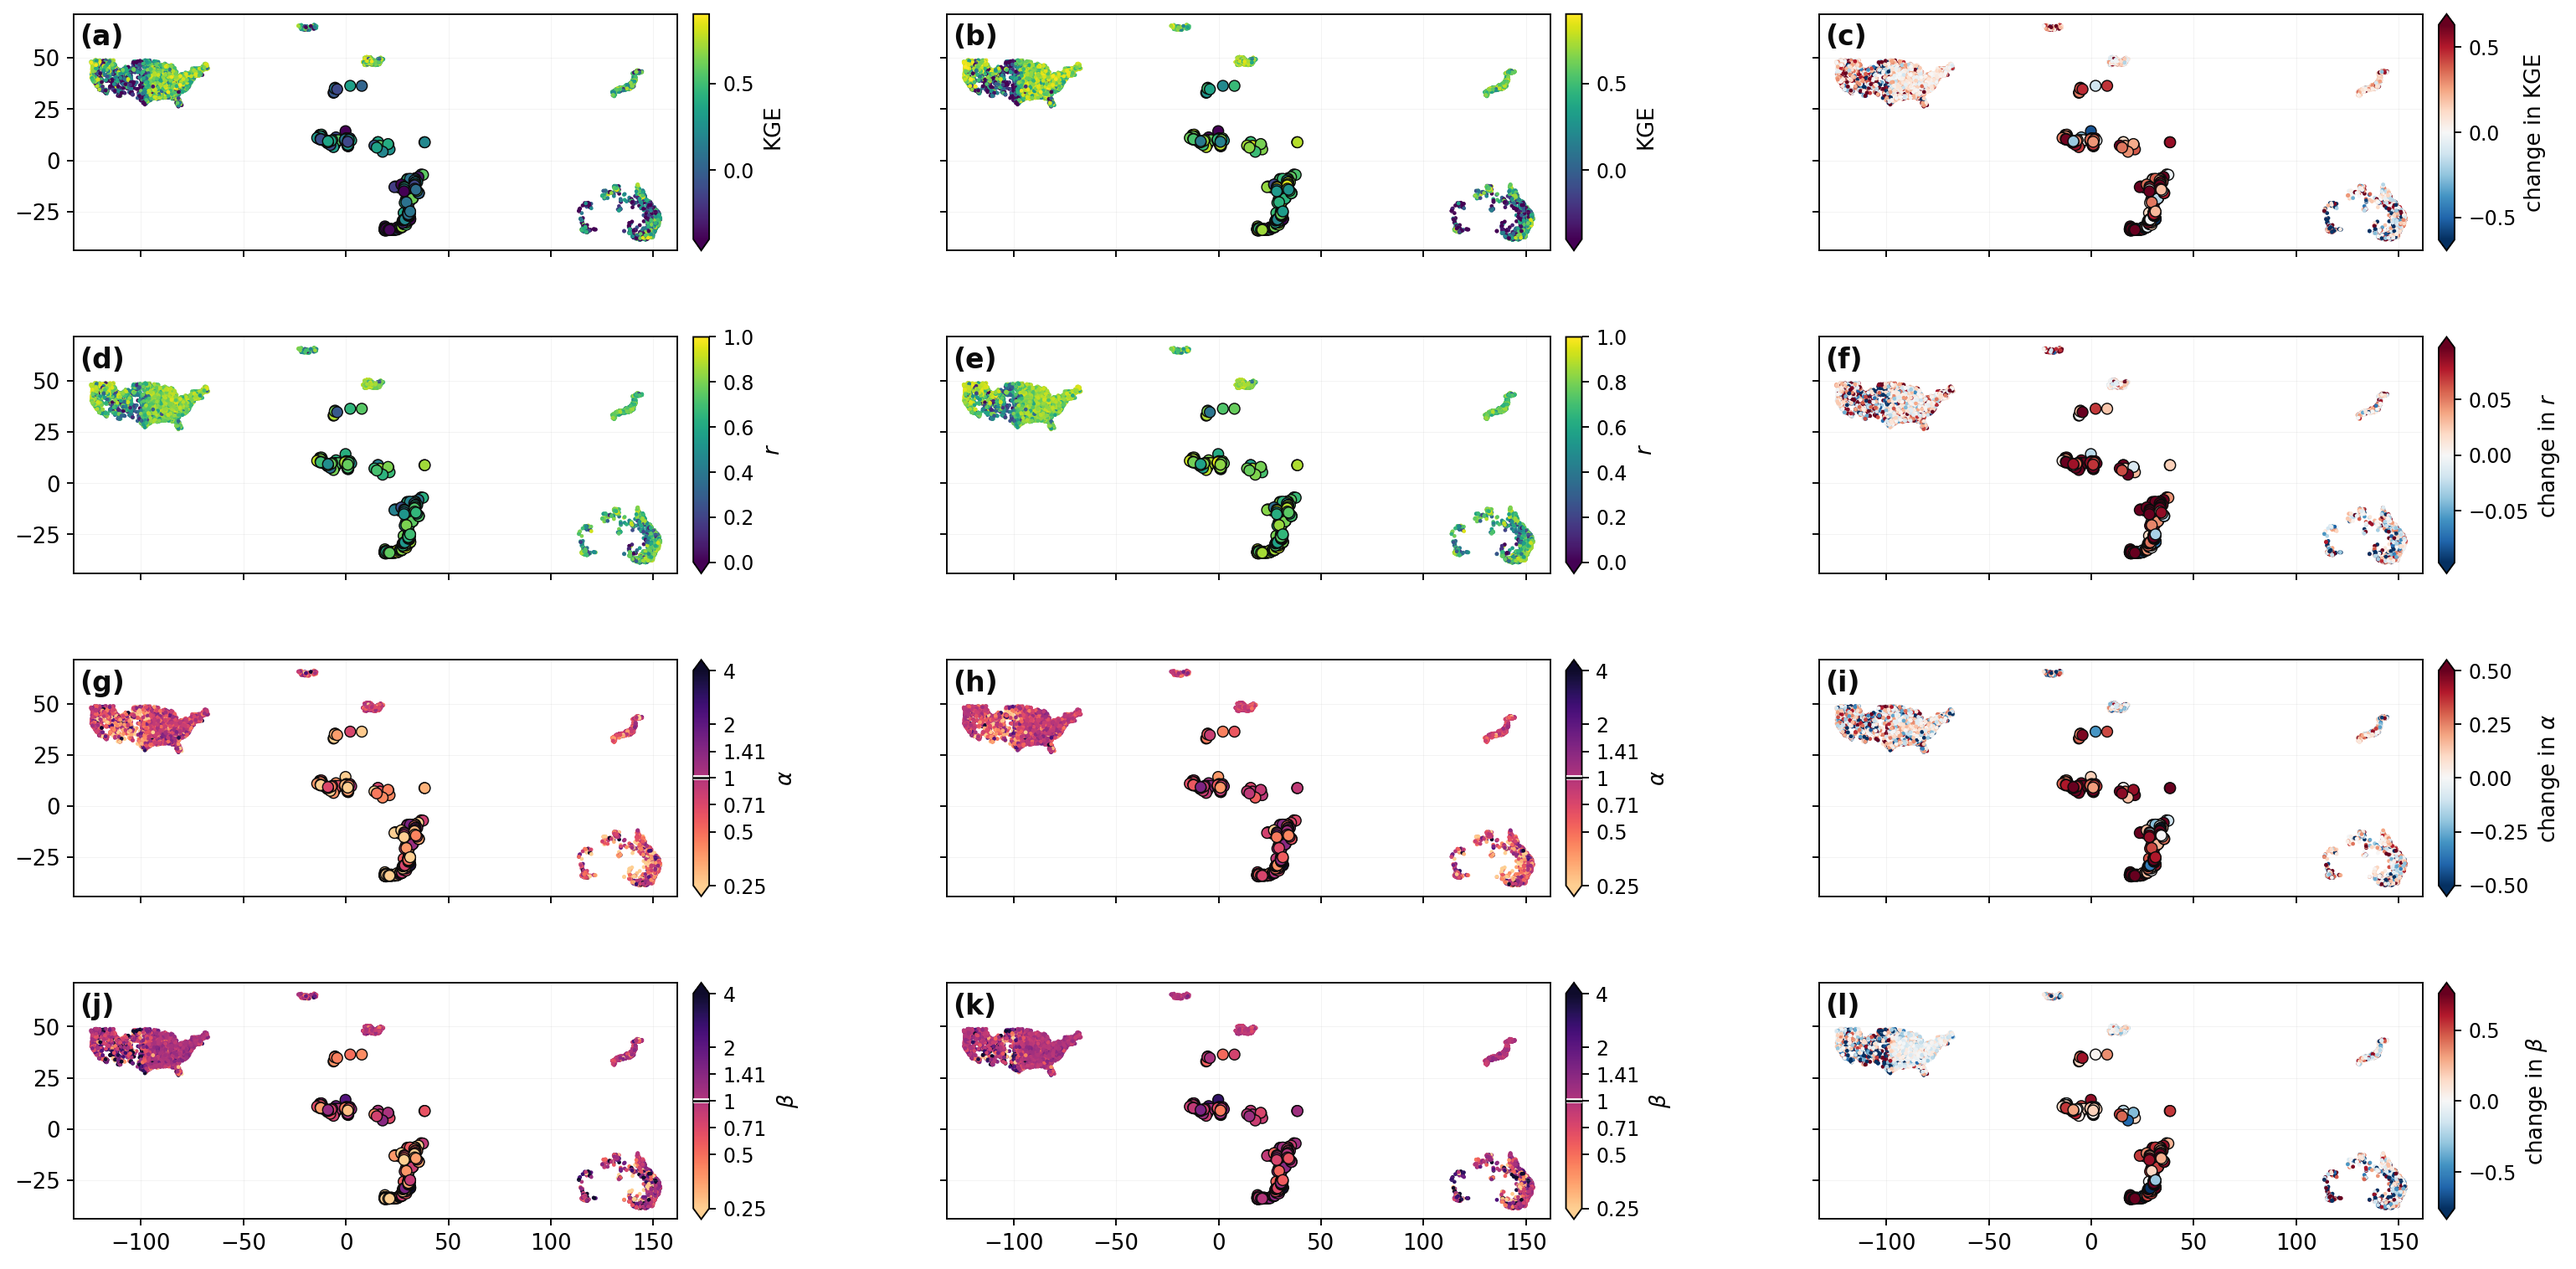
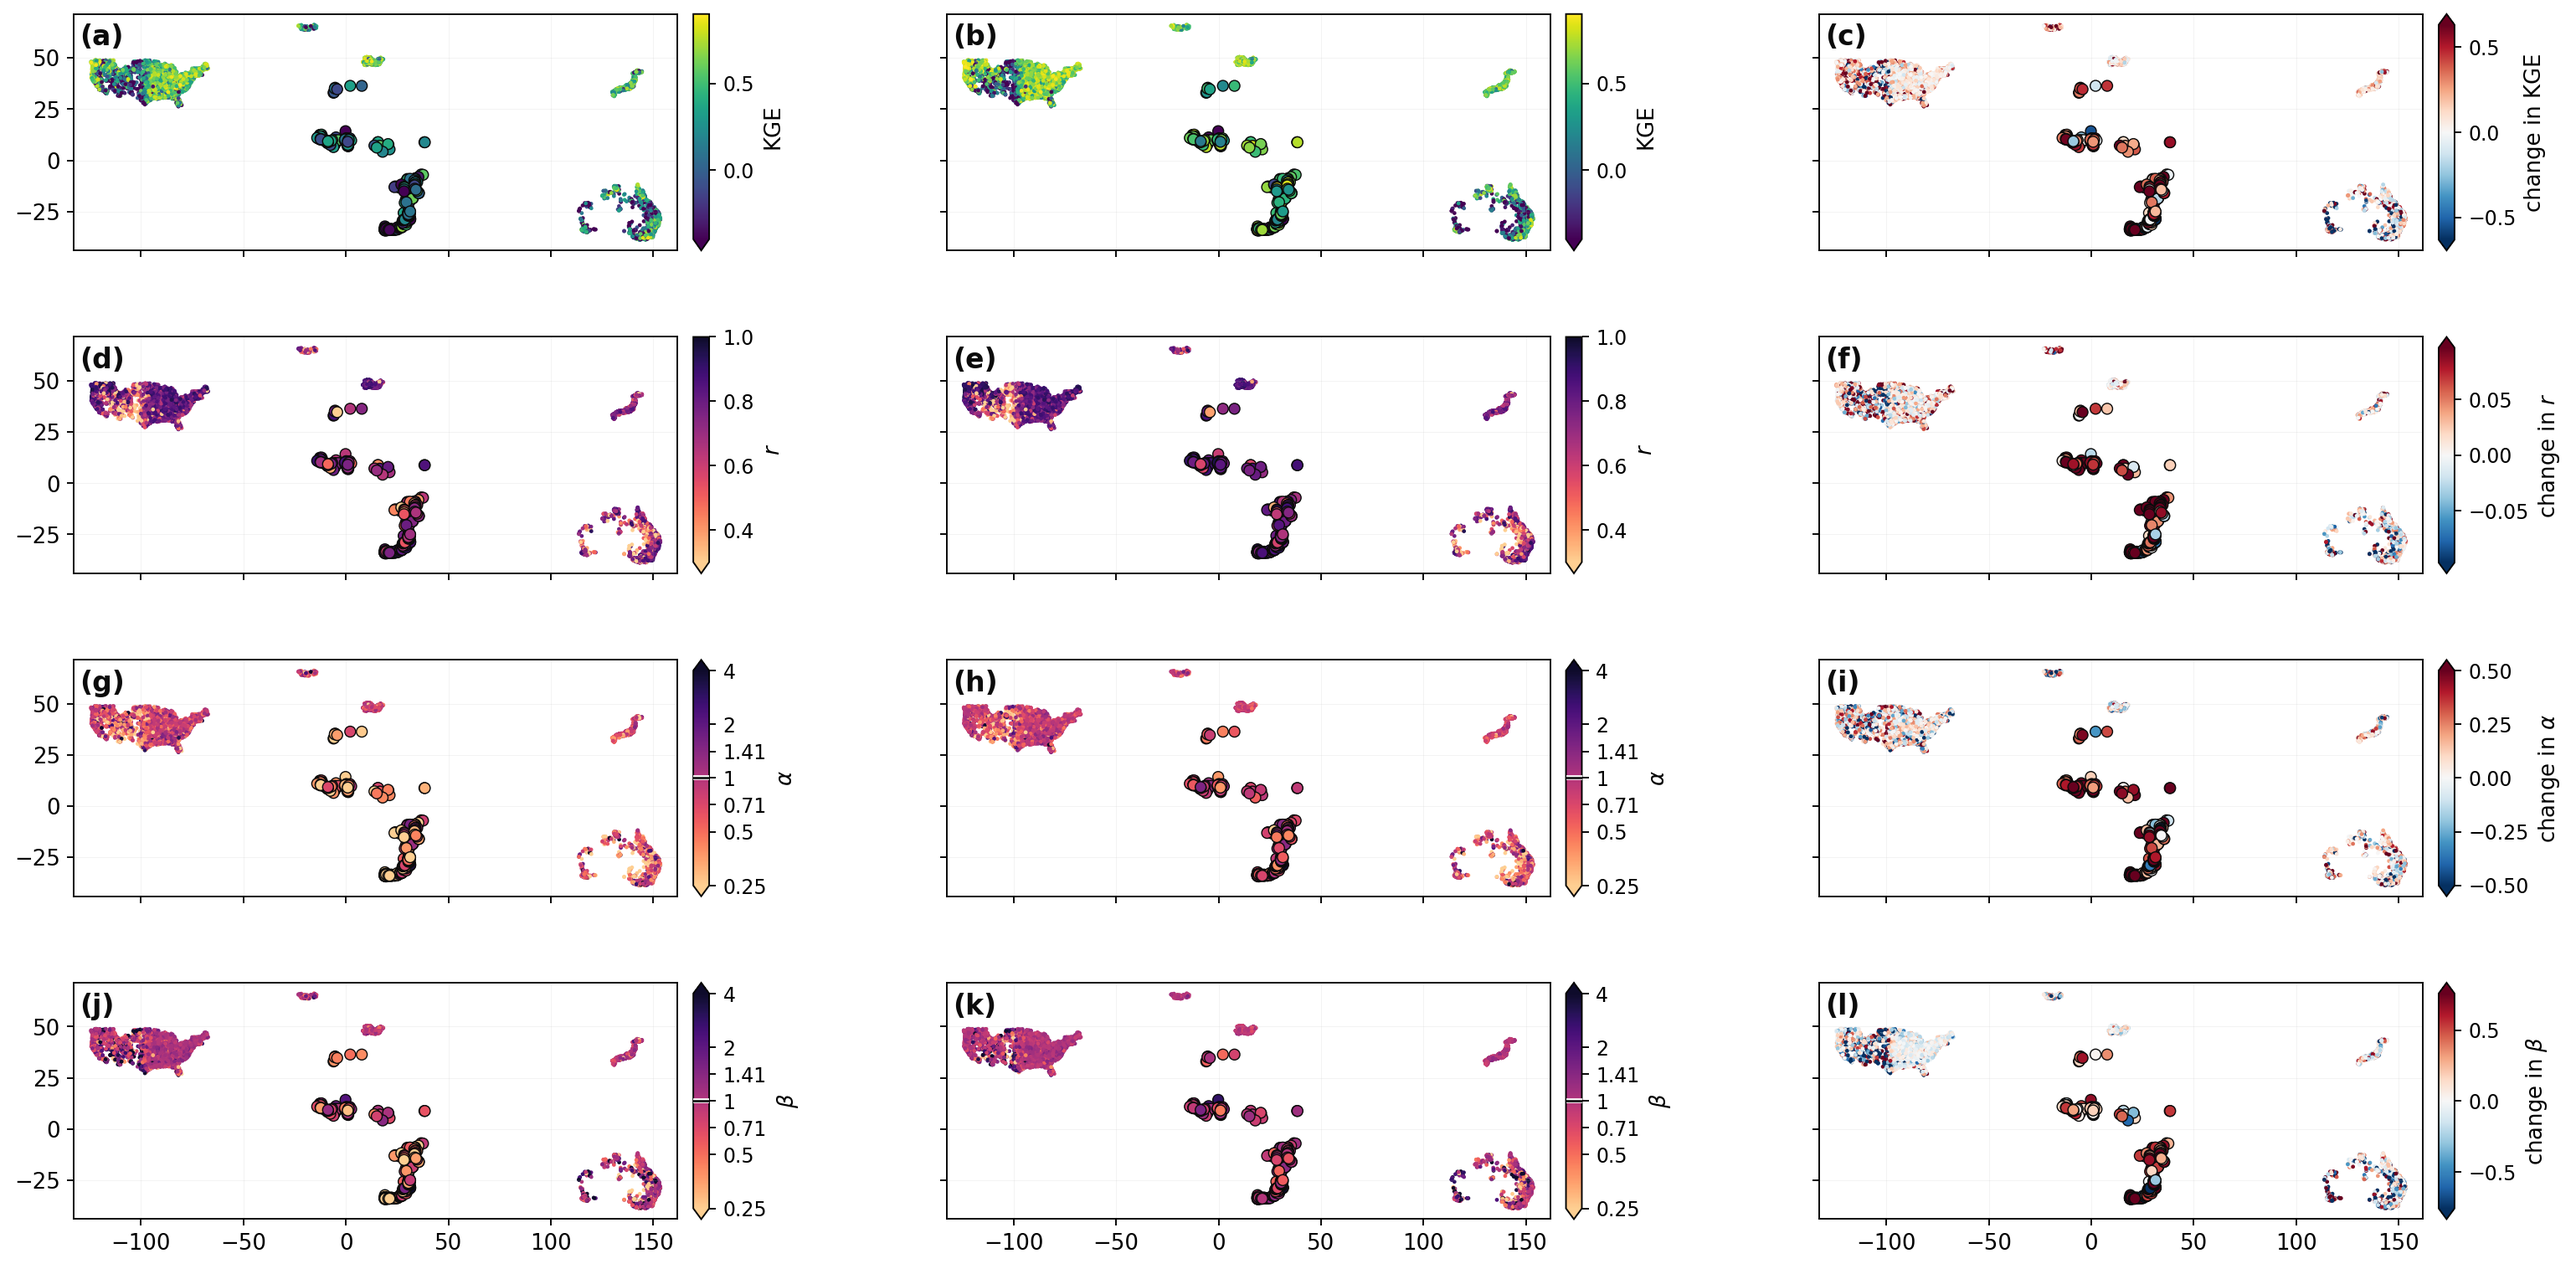
Colour the map by role: one ramp for the score, one for its three components
r now shares the ramp that alpha and beta use, leaving KGE on its own. The grouping follows
the structure of the metric rather than the panel layout: row one is the aggregate score,
rows two to four decompose it, and a reader sees that from the colour before reading a
label.

The consequence is stated in the caption instead of being left to be discovered. The same
colour means different things by row. Dark is good for r, whose ideal sits at the top of its
scale. Dark is over-dispersed for alpha and beta, whose ideal is 1 in the middle and is
marked with a line. Those two were never a single goodness scale, since deviation either way
from 1 is an error.

One legibility problem appeared and was fixed. Given the full 0 to 1 range, both r panels
rendered as almost uniformly dark, because r's 5th to 95th percentile is 0.35 to 0.92 and
the ramp was spending most of its range on values that barely occur. The range is 0.3 to 1.0
now, with the bar extending downward for the 6% of gauges below that.

diff --git a/reports/latex/PhaseI_report.tex b/reports/latex/PhaseI_report.tex
@@ -232,7 +232,7 @@ Figure~\ref{fig:map} puts every gauge on the map, before and after, together wit
 \begin{figure}[htbp]
   \centering
   \includegraphics[width=\linewidth]{fig09_global_map.png}
-  \caption{Columns are M0, M1 and their difference; rows are KGE and its three components, with the first two columns of a row sharing one scale. Small dots are the target gauges, scored against hourly observations, where Phase~I's premise is simulated; large outlined dots are the African basins, scored against daily observations, where it is genuine. The two are never pooled into one median because the observation each score rests on differs. $\alpha$ and $\beta$ use a log scale, so halving and doubling the observed value sit equally far apart. Their ideal value of 1 is marked by a line on the colourbar, since a sequential scale gives it no colour of its own. A diverging scale is reserved for the difference column, where zero is a real centre and the sign is the reading. Longitude is labelled on the bottom row and latitude on the left column only, since all twelve panels share one window. Panels: (a) KGE at M0, gauges 0.527, basins 0.114; (b) at M1, 0.626 and 0.576; (c) the difference, median +0.062 and +0.409.\ (d) $r$ at M0, gauges 0.800, basins 0.706; (e) at M1, 0.815 and 0.799; (f) the difference, median +0.005 and +0.080.\ (g) $\alpha$ at M0, gauges 0.808, basins 0.440; (h) at M1, 0.845 and 0.830; (i) the difference, median +0.037 and +0.333.\ (j) $\beta$ at M0, gauges 1.020, basins 0.475; (k) at M1, 0.995 and 0.953; (l) the difference, median -0.019 and +0.455. In the difference column the sign is the verdict for KGE and $r$, where larger is better, but not for $\alpha$ and $\beta$, whose ideal is 1.0: an increase helps a gauge below it and hurts one above it.}
+  \caption{Columns are M0, M1 and their difference; rows are KGE and its three components, with the first two columns of a row sharing one scale. Small dots are the target gauges, scored against hourly observations, where Phase~I's premise is simulated; large outlined dots are the African basins, scored against daily observations, where it is genuine. The two are never pooled into one median because the observation each score rests on differs. $\alpha$ and $\beta$ use a log scale, so halving and doubling the observed value sit equally far apart. Their ideal value of 1 is marked by a line on the colourbar, since a sequential scale gives it no colour of its own. A diverging scale is reserved for the difference column, where zero is a real centre and the sign is the reading. Colour follows role: KGE is the aggregate score and takes its own ramp, while $r$, $\alpha$ and $\beta$ share one ramp because they decompose it. The same colour therefore means different things by row. Dark is good for $r$, whose ideal is the top of its scale, and dark is over-dispersed for $\alpha$ and $\beta$, whose ideal is 1 in the middle and is marked. Longitude is labelled on the bottom row and latitude on the left column only, since all twelve panels share one window. Panels: (a) KGE at M0, gauges 0.527, basins 0.114; (b) at M1, 0.626 and 0.576; (c) the difference, median +0.062 and +0.409.\ (d) $r$ at M0, gauges 0.800, basins 0.706; (e) at M1, 0.815 and 0.799; (f) the difference, median +0.005 and +0.080.\ (g) $\alpha$ at M0, gauges 0.808, basins 0.440; (h) at M1, 0.845 and 0.830; (i) the difference, median +0.037 and +0.333.\ (j) $\beta$ at M0, gauges 1.020, basins 0.475; (k) at M1, 0.995 and 0.953; (l) the difference, median -0.019 and +0.455. In the difference column the sign is the verdict for KGE and $r$, where larger is better, but not for $\alpha$ and $\beta$, whose ideal is 1.0: an increase helps a gauge below it and hurts one above it.}
   \label{fig:map}
 \end{figure}
 

diff --git a/scripts/global_map.py b/scripts/global_map.py
@@ -245,9 +245,21 @@ def main() -> None:
     #
     # KGE and r keep viridis. The two ratios take magma so that a reader cannot mistake one
     # family of quantities for the other at a glance.
+    # Colour follows role. KGE is the aggregate score and keeps viridis. r, alpha and beta
+    # are its three components and share one ramp, so a reader sees at a glance that rows
+    # two to four decompose row one.
+    #
+    # The same colour therefore means different things by row: dark is good for r, whose
+    # ideal is the top of its scale, and dark is over-dispersed for alpha and beta, whose
+    # ideal is 1 in the middle. Those two were never one goodness scale to begin with, since
+    # deviation either way from 1 is an error. The colourbar label and the marked ideal are
+    # what place the reader, and the caption says so.
     ROWS = (
         ("kge", "KGE", "score", "viridis", Normalize(vmin=-0.4, vmax=0.9)),
-        ("kge_r", "$r$", "score", "viridis", Normalize(vmin=0.0, vmax=1.0)),
+        # 0.3 to 1.0, not 0 to 1. r's 5th to 95th percentile is 0.35 to 0.92, so a full
+        # 0-1 ramp spent most of its range on values that barely occur and rendered the two
+        # panels as almost uniformly dark. The bar extends downward for the 6% below 0.3.
+        ("kge_r", "$r$", "score", truncated("magma_r"), Normalize(vmin=0.3, vmax=1.0)),
         ("kge_alpha", r"$\alpha$", "ratio", truncated("magma_r"), Normalize(vmin=-2.0, vmax=2.0)),
         ("kge_beta", r"$\beta$", "ratio", truncated("magma_r"), Normalize(vmin=-2.0, vmax=2.0)),
     )

diff --git a/scripts/build_latex.py b/scripts/build_latex.py
@@ -164,7 +164,12 @@ def map_caption(d: dict) -> str:
         "halving and doubling the observed value sit equally far apart. Their ideal value "
         "of 1 is marked by a line on the colourbar, since a sequential scale gives it no "
         "colour of its own. A diverging scale is reserved for the difference column, "
-        "where zero is a real centre and the sign is the reading. "
+        "where zero is a real centre and the sign is the reading. Colour follows role: "
+        "KGE is the aggregate score and takes its own ramp, while $r$, $\\alpha$ and "
+        r"$\beta$ share one ramp because they decompose it. The same colour therefore "
+        "means different things by row. Dark is good for $r$, whose ideal is the top of "
+        r"its scale, and dark is over-dispersed for $\alpha$ and $\beta$, whose ideal "
+        "is 1 in the middle and is marked. "
         "Longitude is labelled on the bottom row and latitude on the left column only, since "
         "all twelve panels share one window. Panels: " + ".\\ ".join(parts) + ". In the "
         "difference column the sign is the verdict for KGE and $r$, where larger is better, "
